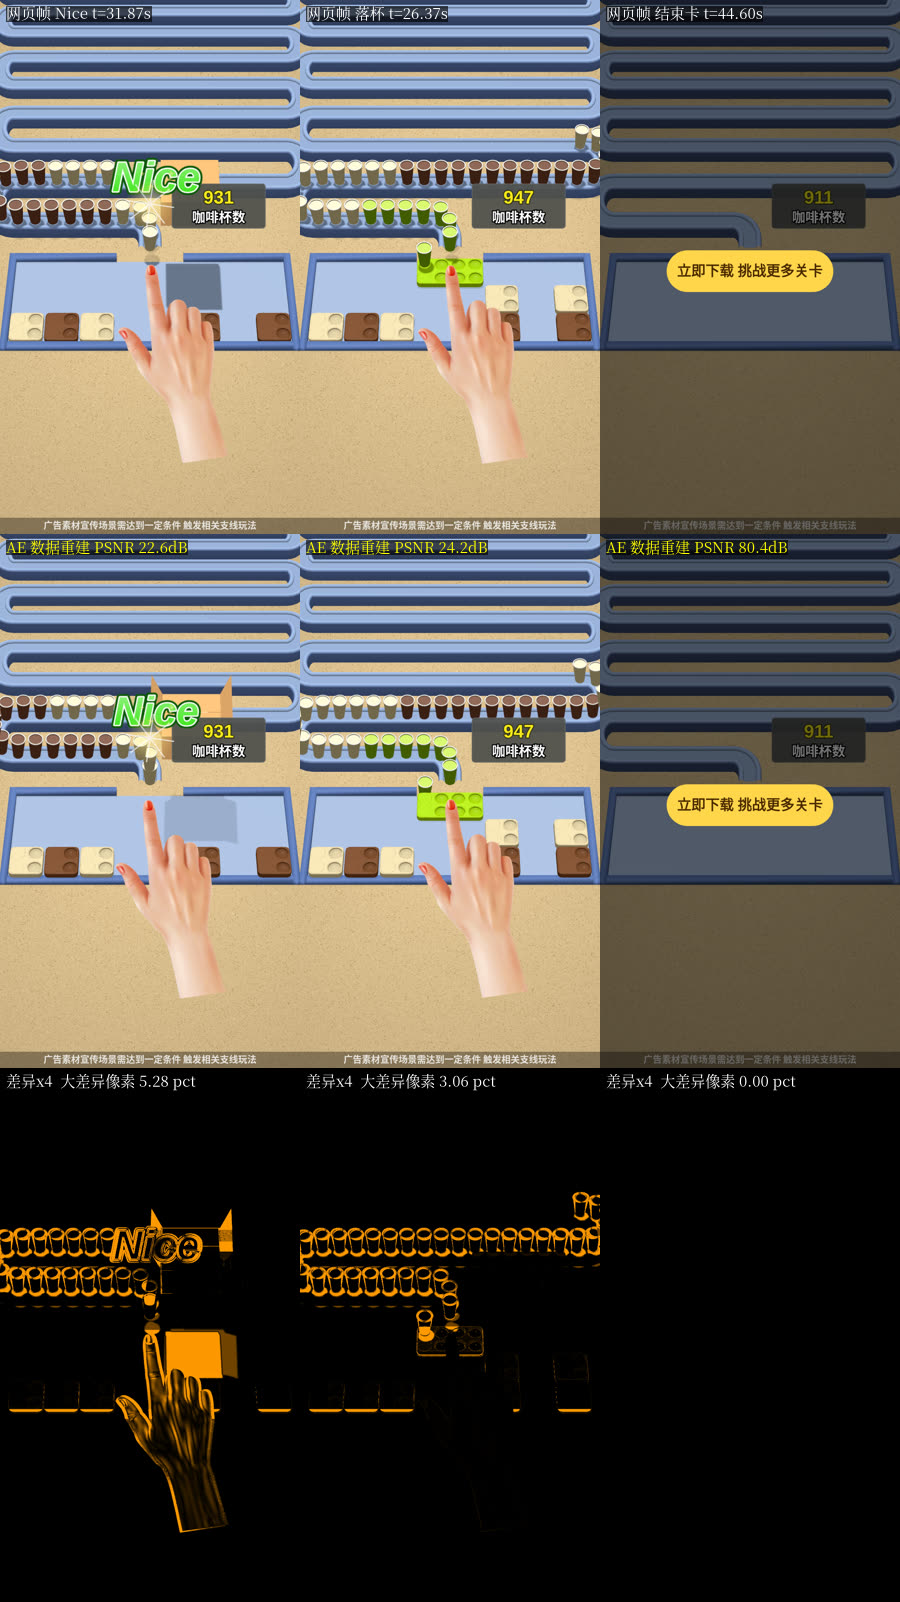
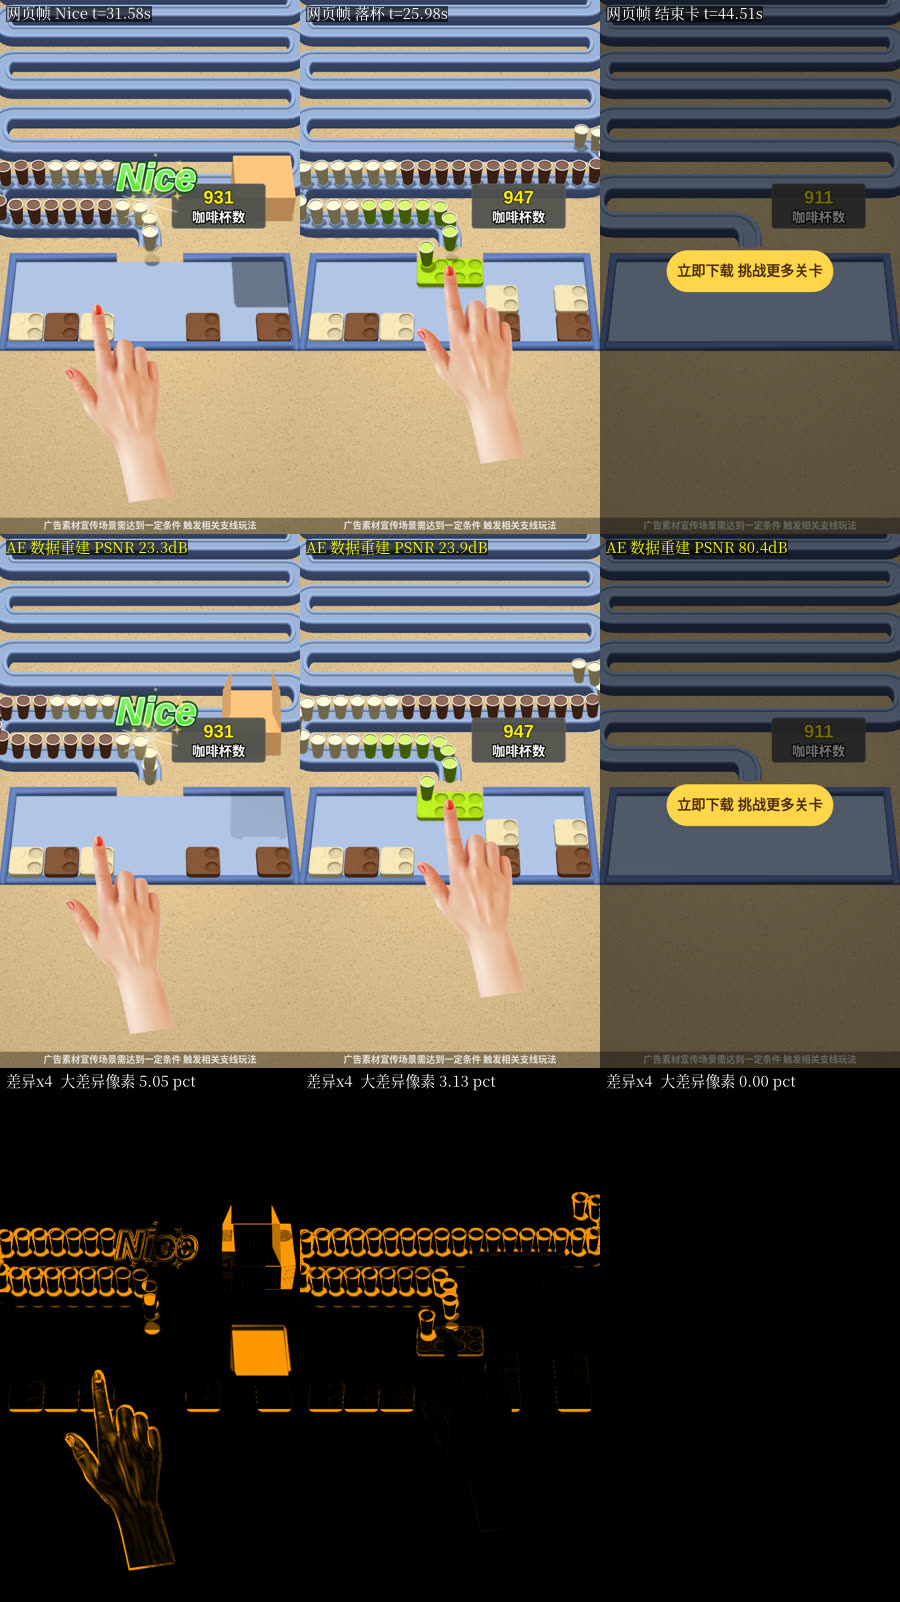
v1.2.1: PROGRESS + README

diff --git a/ref/PROGRESS.md b/ref/PROGRESS.md
@@ -35,3 +35,12 @@
 ## v1.2 剩余差距
 - AE 3D 外观：托盘 / 杯子移动到别处仍用初始位置 / 分带渲染的精灵（透视角度不随位置变化）；元素间遮挡、投影按图层顺序近似；纸箱序列为逐帧 PNG（非 AE 原生 3D 图层），与网页 3D 帧最低 PSNR≈20 dB（差异主要在杯子 / 托盘边缘亚像素与阴影）
 - 盒子无 GPU（SwiftShader），3D 页面测试帧率低；长流程测试仍以 2D 为主
+
+## v1.2.1 穿模 / 对准修复（2026-10-19 00:10–01:40 UTC+8）
+- ✅ test:clip（test/clip-check.js + clip-test.mjs）：虚拟时钟逐帧（30fps）读取 three.js 实际物体检查 杯–杯 / 杯–传送带（带体+挡边）/ 杯–托盘（凹槽中心+深度）/ 托盘–托盘 / 托盘–外框 / 托盘–底板 / 托盘–传送带 / 纸箱壁+底+翻盖（薄定向盒采样）–杯 / –托盘 / –传送带 / 纸箱–纸箱；对准：托盘格心、托盘贴底板、杯–凹槽中心/高度、装杯顺序、2D↔3D 托盘/杯/纸箱锚点、2D 杯子绘制顺序（按相机深度）、2D 纸箱与杯分层。场景：参考关卡、随机 7 / 42（30% 绿色 8 杯宽托盘）/ 1234（点击）、抖动。容差 1px 当量 = 0.998 世界单位。
+- 修复前（v1.2.0 b621e0d，quick=参考关+抖动）：cup-belt 14.13/1,029,285 帧次，cup-cup 34.56/1102，cup-tray 14.83/11,810，tray-tray 7.54/705,221，tray-frame 6.34/165,664，tray-floor 2.92/299,987，box-cup 10.75/7970，box-tray 11.18/3752；托盘格心偏 11.1，杯–凹槽偏 2.25，装杯顺序错 213，2D↔3D 杯锚 4.8px/7420，纸箱锚 42.9px/2038，2D 纸箱分层 1301，2D 杯绘制顺序 8591 → ref/clip_report_before_quick.json
+- 修复后（全部 5 场景）：所有类型 0 违规，最大穿透 0；2D↔3D 托盘锚 0.61px（<1px）→ ref/clip_report_after_full.json
+- 根因 + 修复：src/world.js 统一世界模型（托盘/杯/传送带/纸箱全部世界坐标，2D 为同一相机投影）；传送带按弦长等距排杯 + 出口对齐托盘；cupPath 直出→下降→越障→垂直落入指定凹槽（参考顺序：后排左→右，再前排）；托盘倒角收在格内、贴底板；抖动限位；纸箱底/壁包住托盘、箱口在翻盖越过竖直前加深到杯顶以上、翻盖铰在箱口；2D 纸箱为 3D 投影 + 分层；2D 杯按相机深度排序；AE 图层按绘制层拆段。
+- ✅ 截图：screenshots/clip_fix_before_after.jpg、cup_fill_ref_vs_tool.jpg、box_pack_ref_vs_tool_v121.jpg（棕色 5.50 s + 绿色 8 杯 26.25 s 全序列逐帧 + 合盖放大）
+- ✅ 测试（逐个）：test:logic / npm test / test:ae / test:ae3d / test:3d BLENDER PASS / test:drag / test:norec / test:shape / test:clip 全部 PASS
+- 差距：参考绿色 8 杯打包整体比棕色慢约 0.25 s，工具两者同一时长；AE 2D 合成 PSNR 平均 32.4（传送带头部缓动时快照与关键帧时间差导致带上杯子约 4px 误差，仅测试比较误差）

diff --git a/README.md b/README.md
@@ -10,6 +10,7 @@
 - 点击托盘：若有通往出口的空格路径（刚体移动）且颜色与传送带最前面的杯子一致 → 滑到出口 → 杯子逐个落入 → 纸箱合盖飞向计数器 → “Nice”。被挡 / 颜色不符：抖动 + 红光 + 错误音。
 - `▶ 自动通关`：求解器（DFS，必要时插入暂存步骤 solvePlan）规划，内置“手 + 白色触控笔”按住托盘沿路径拖动，笔尖与托盘严格同步（可上传透明 PNG 替换）。
 - **v1.1 3D 渲染**：页面用 three.js（打包进 index.html，离线）实时渲染硅胶托盘（半球凹槽）、纸杯、蓝色传送带、棋盘、可翻折的纸箱，带阴影；相机 FOV / 俯角 / 距离、灯光、材质都在“3D 渲染”设置组。纸箱四片翻盖连续翻折 + Nice 金色星星粒子。
+- **v1.2.1**：穿模 / 未对准修复——统一世界坐标模型（托盘 / 杯子 / 传送带 / 纸箱共用一套 3D 尺寸，2D 为同一相机投影）；杯子沿传送带等距、直出后落入指定凹槽（参考顺序）；托盘精确对格；纸箱打包按参考逐帧重做且箱壁 / 翻盖不穿杯；新增 `npm run test:clip`（逐帧 3D 穿模 + 对准检查，参考关卡 + 随机种子，0 违规）、`test:fill`、`test:boxpack` 对比图。
 - **v1.2**：3D 相机 / 颜色按参考逐帧拟合（`screenshots/ref_vs_tool.jpg`）；纸箱折叠按参考逐帧重做时序（托盘+杯子升起 → 纸箱长出 → 前后盖先合、左右盖后合 → 向右飞出，`screenshots/box_fold_ref_vs_tool.jpg`）。
 - 关卡：参考关卡 / 随机生成（保证可解）/ 导入任意透明 PNG/WebP（alpha 量化到网格，自动开出口并校验可解）。
 
